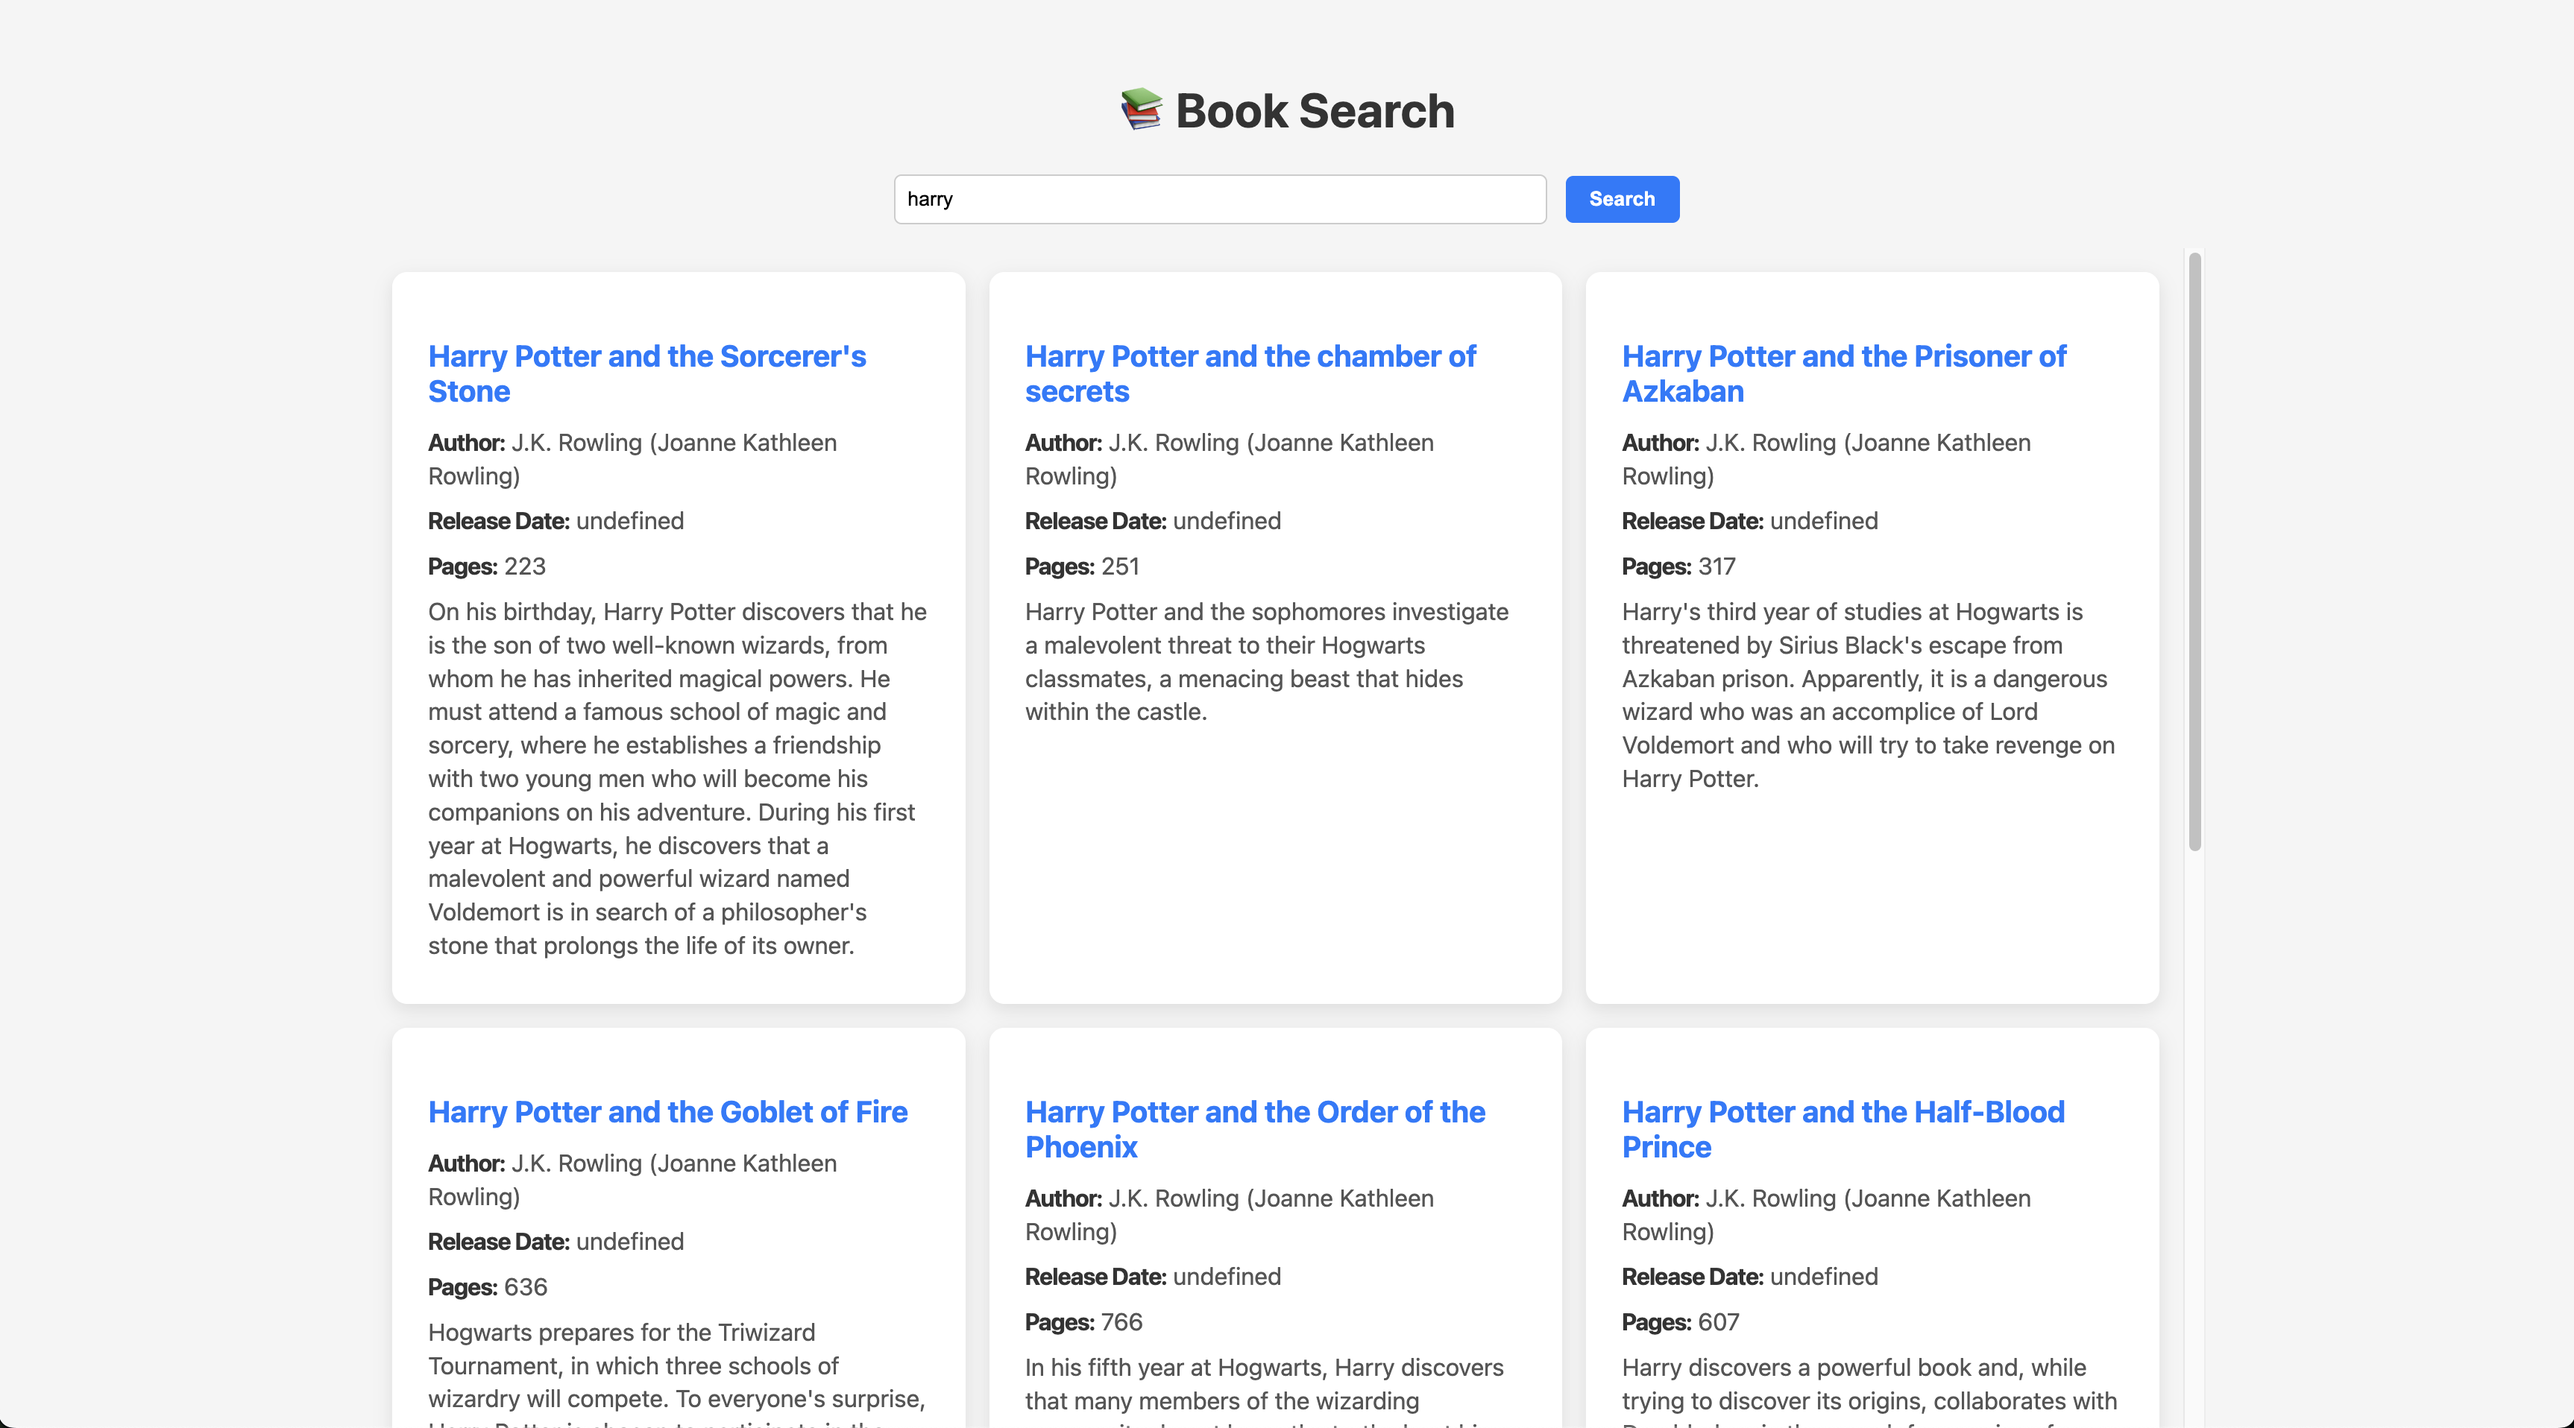
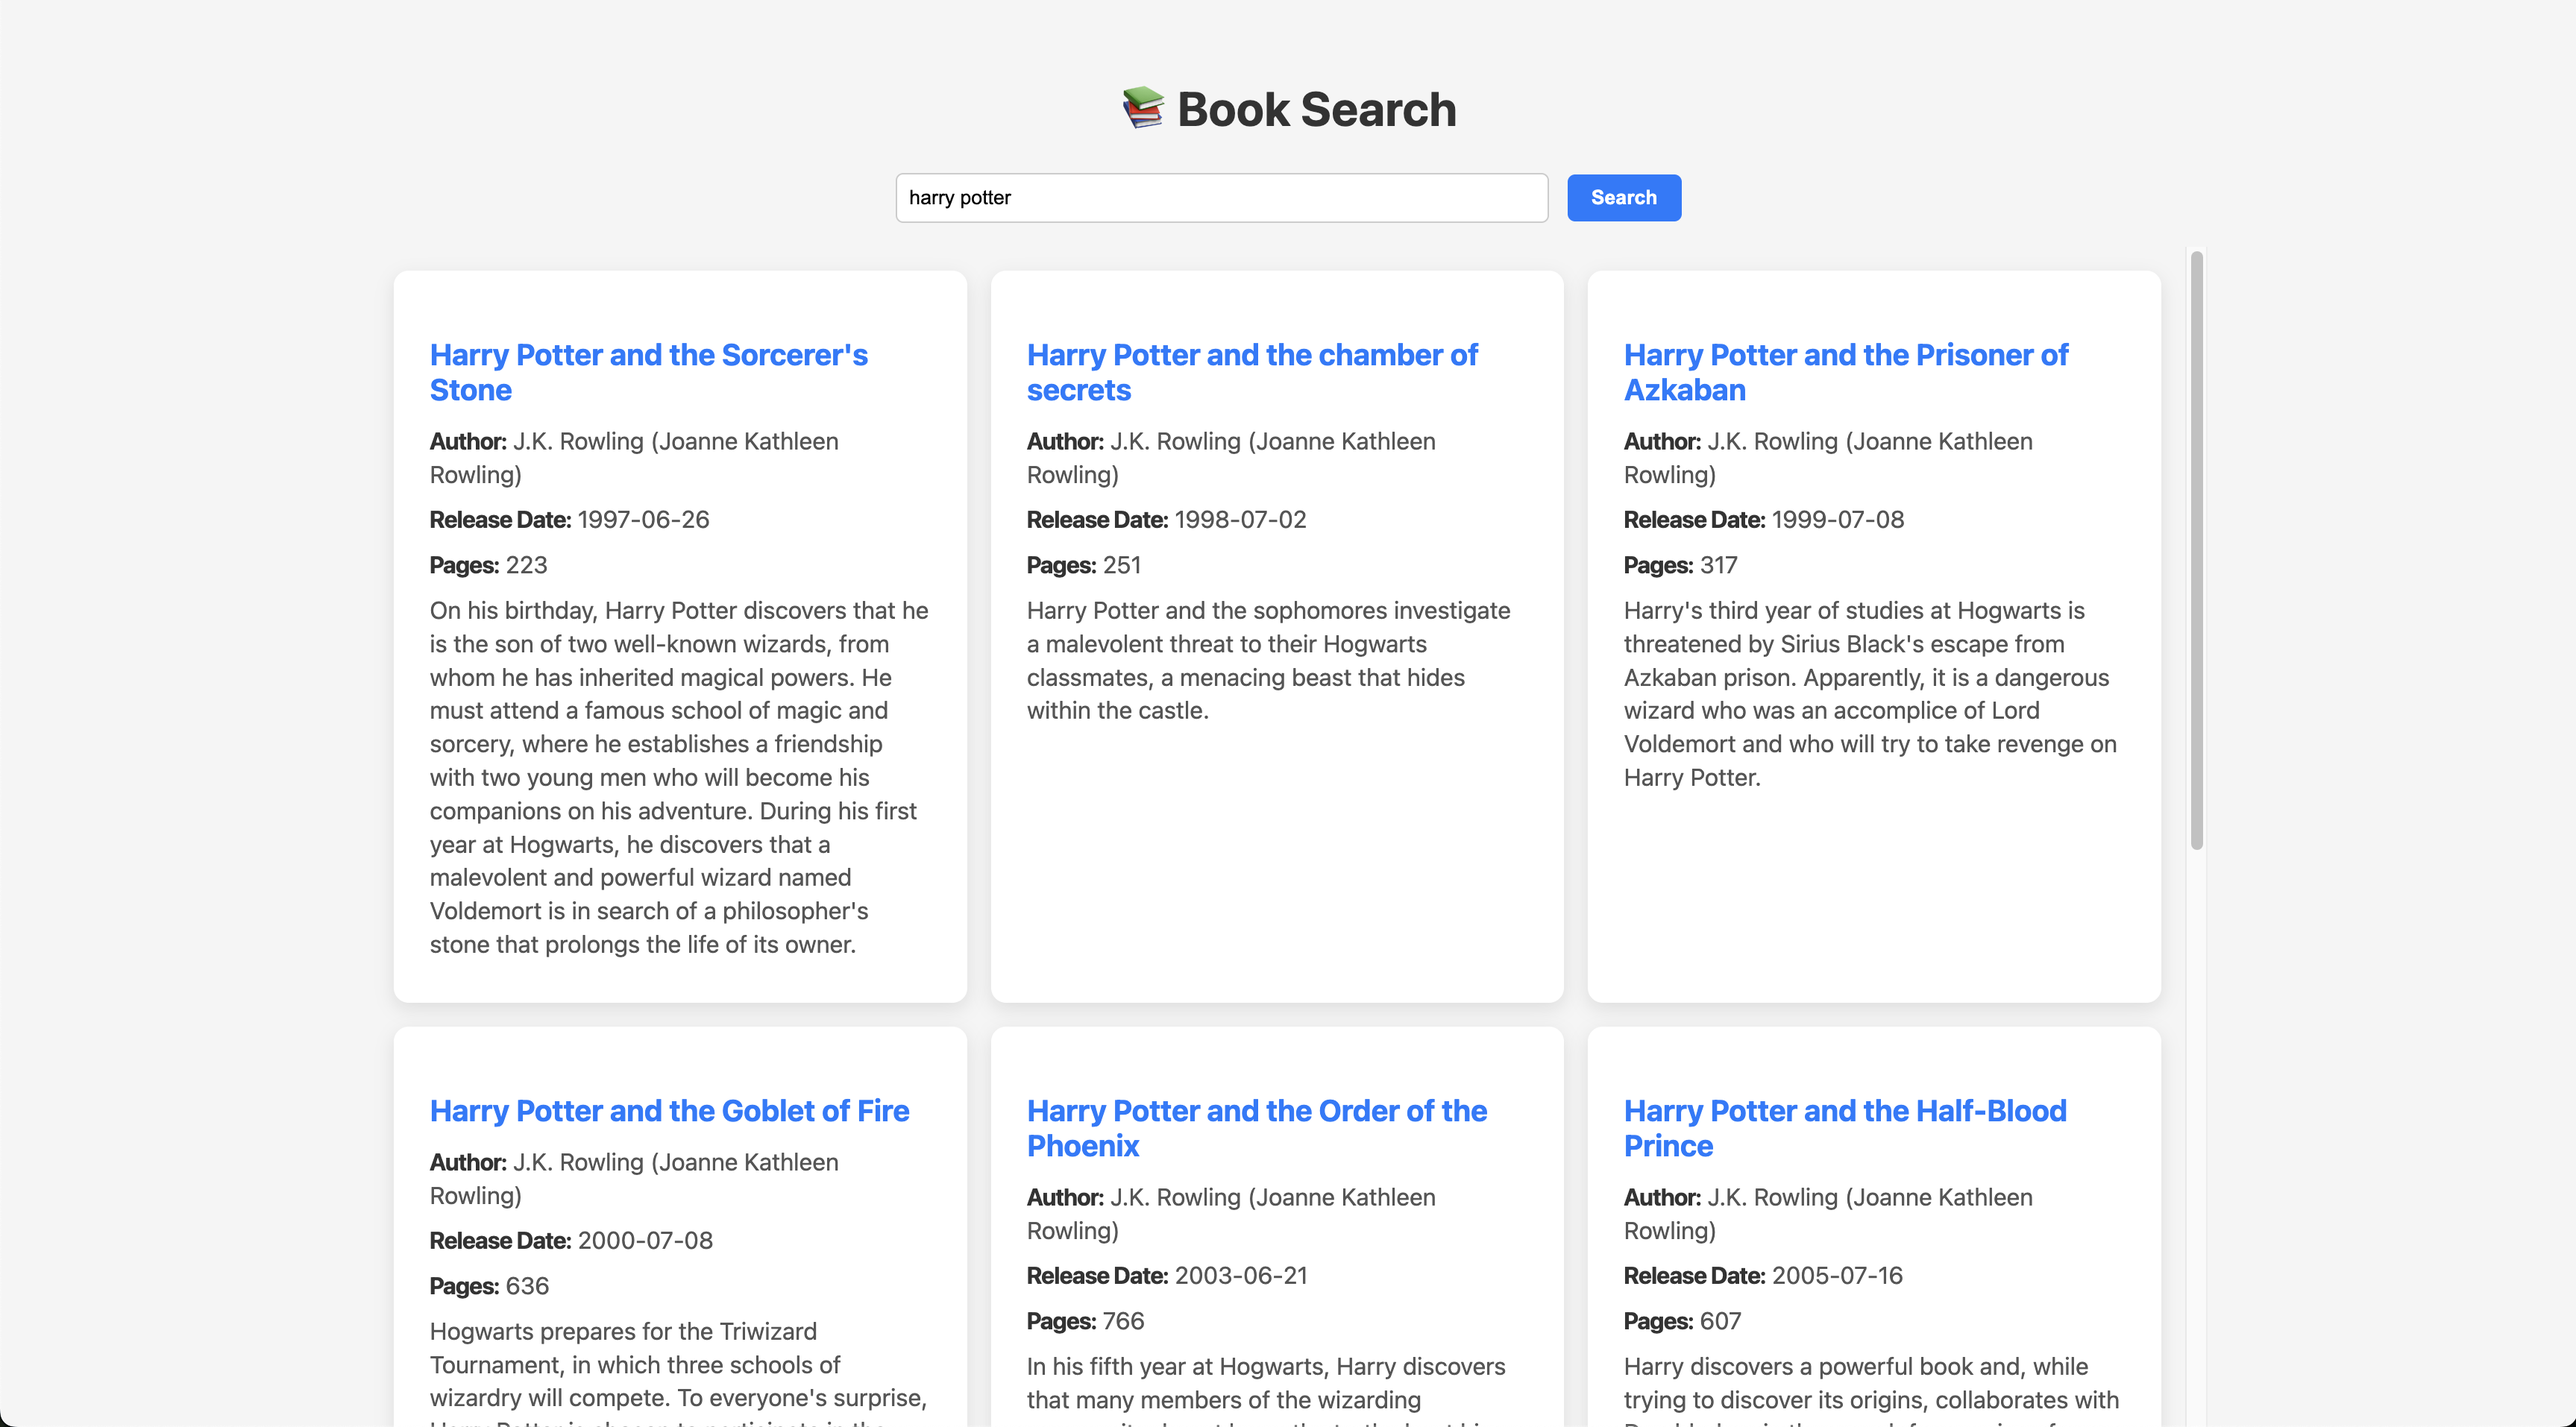
[LIRW] - Bug fix

diff --git a/views/index.html b/views/index.html
@@ -71,7 +71,7 @@
         <div class="book-card">
           <h3>${book.title}</h3>
           <p><strong>Author:</strong> ${book.author}</p>
-          <p><strong>Release Date:</strong> ${book.published_date}</p>
+          <p><strong>Release Date:</strong> ${book.releaseDate}</p>
           <p><strong>Pages:</strong> ${book.pages}</p>
           <p>${book.description}</p>
         </div>
